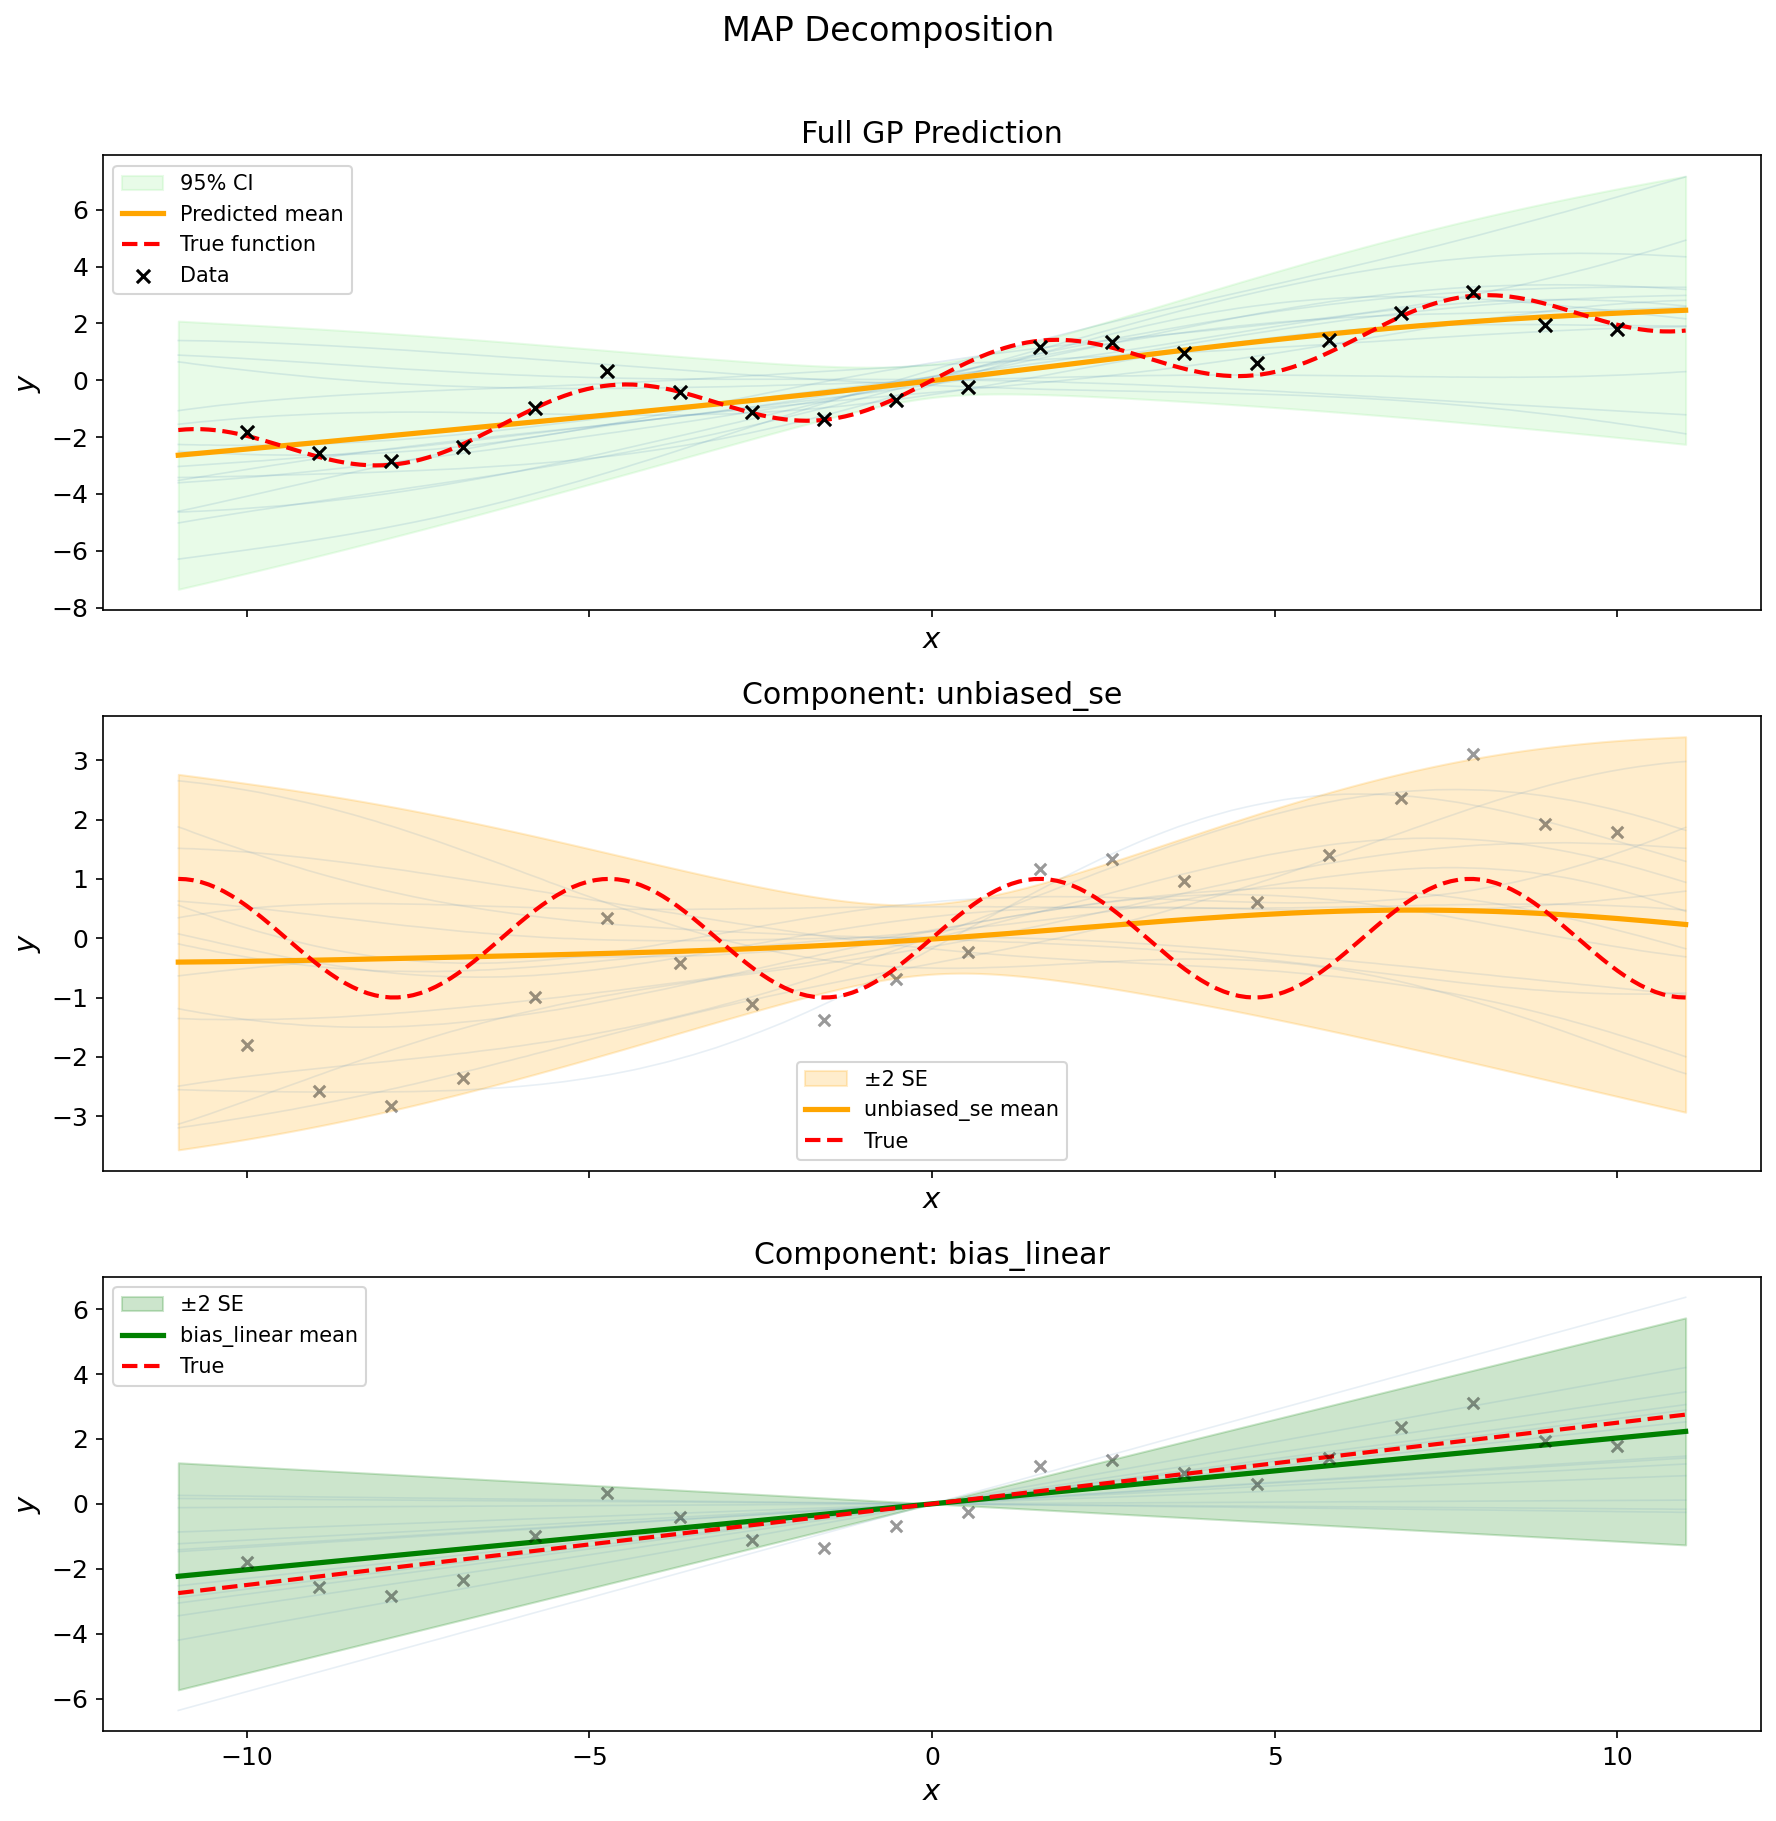
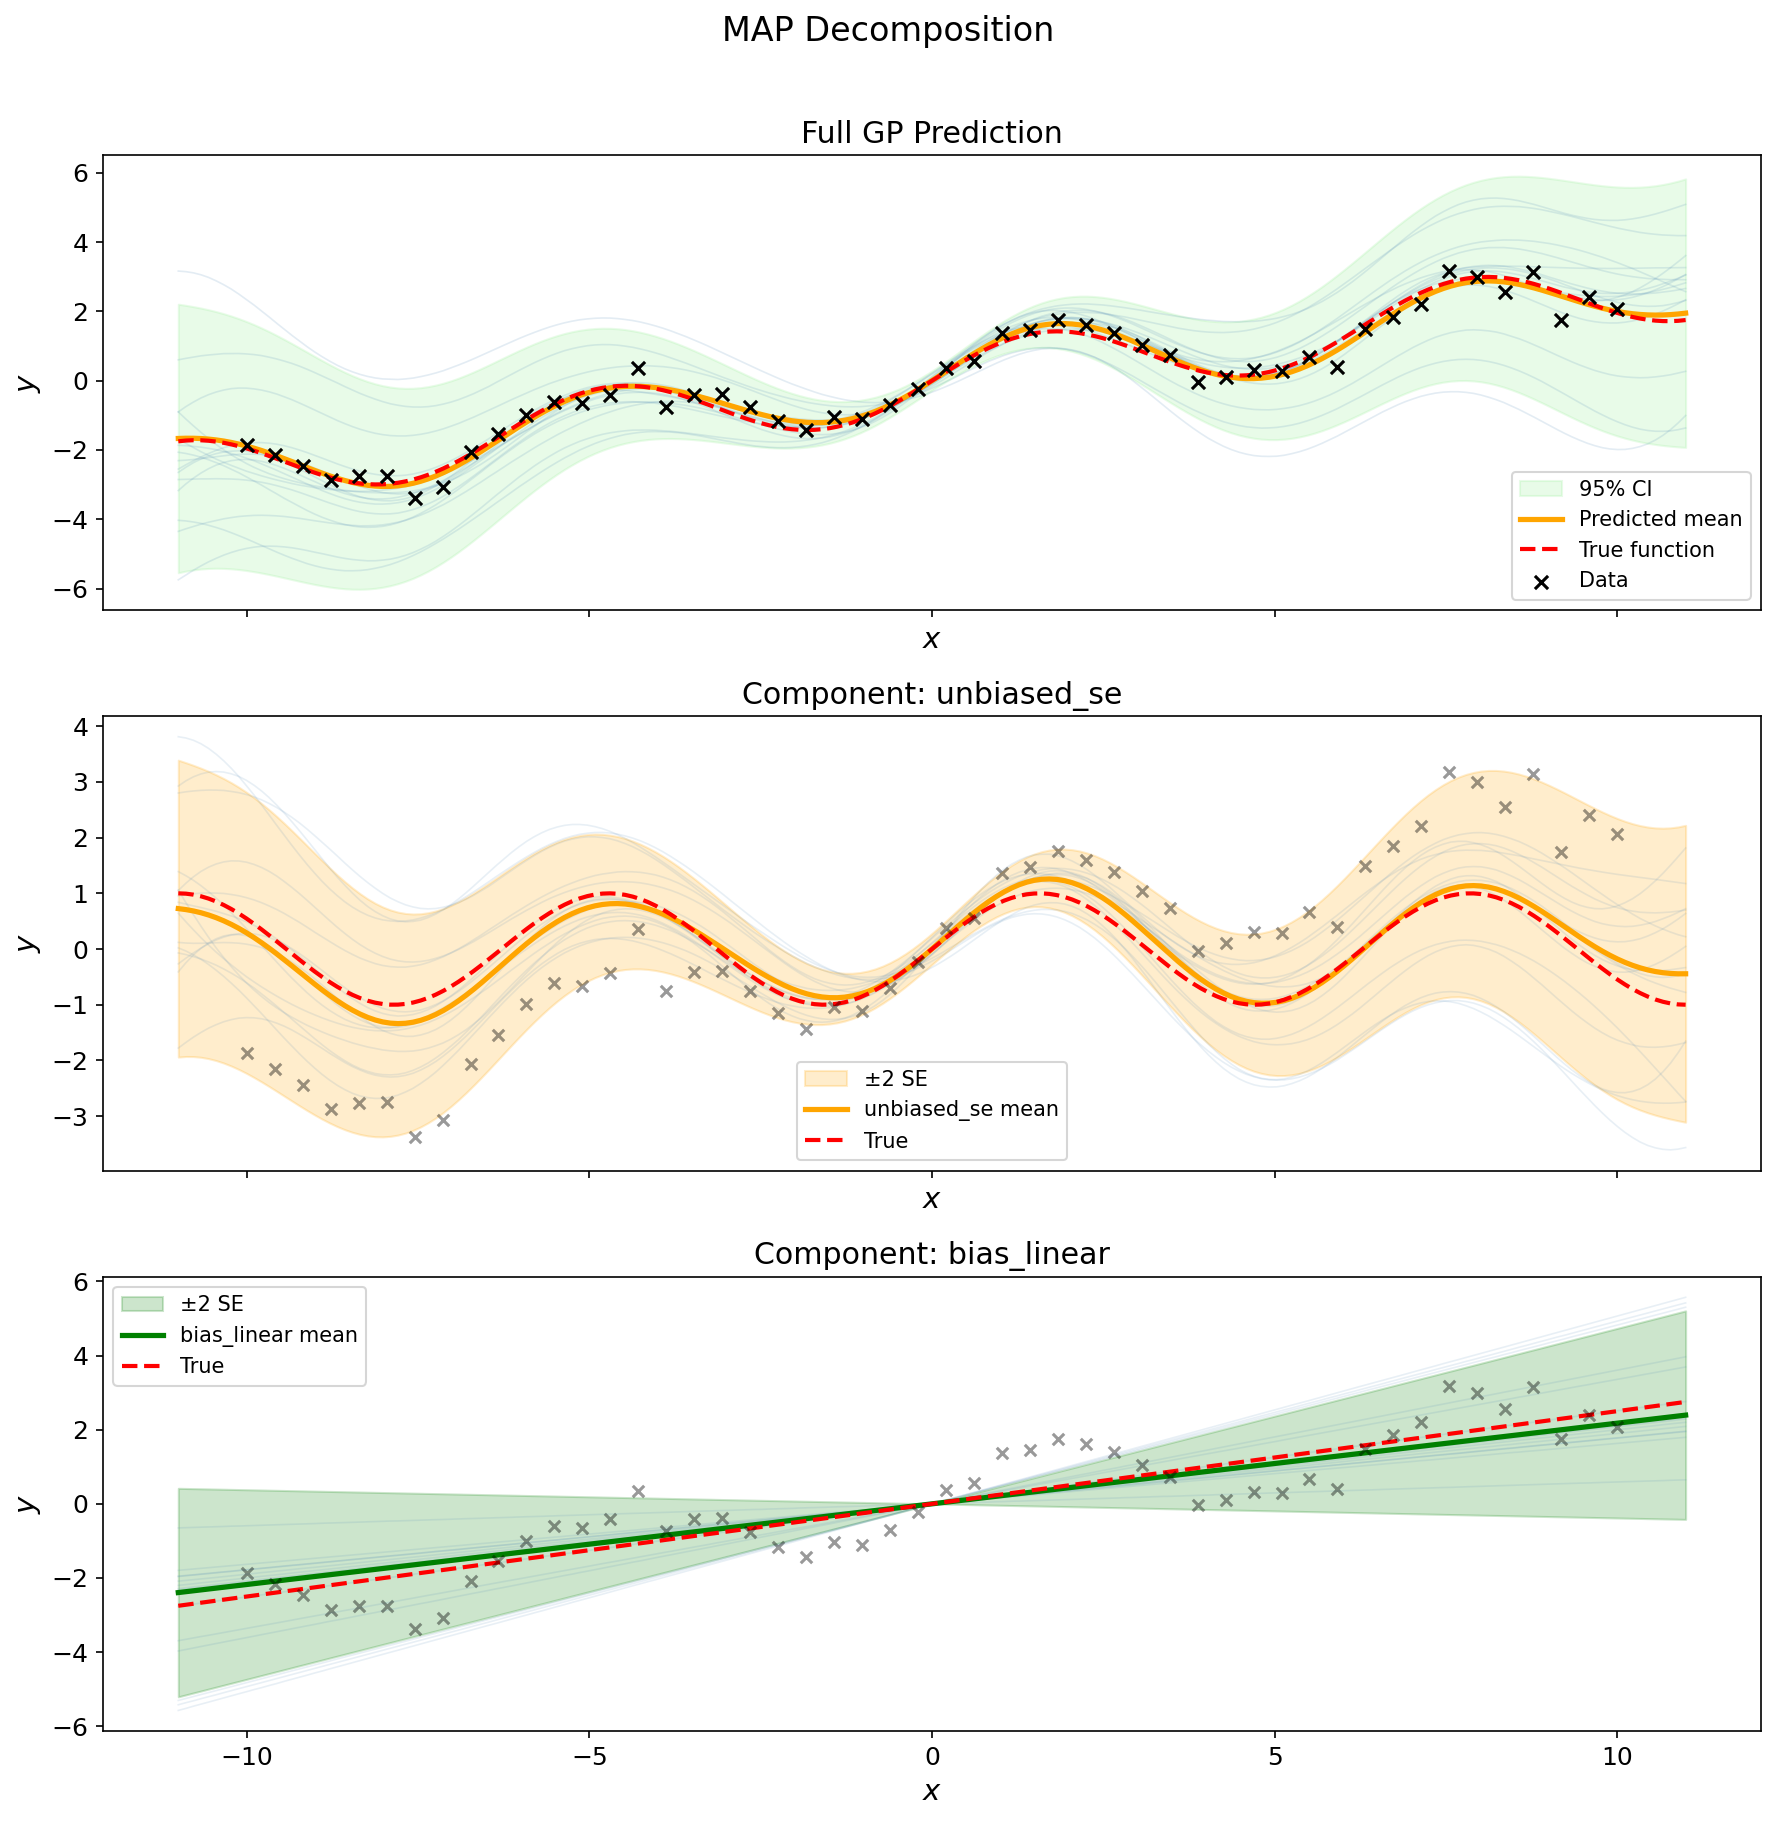
improving non-identifability: shorter lengthscale prior + more observed points
The posterior is genuinely dominated by the linear mode — it's not a mixing problem, it's that the likelihood strongly favors "linear + noise" over "linear + sinusoidal" with only 20 noisy points.
The issue is the Gamma(6, 0.85) prior on lengthscale. Its mean is ~5, which favors smooth/long lengthscales. To capture sin(x) with period 2π ≈ 6.3, you need lengthscales around 1-2.

ALSO
nstead of using pyro_load_from_samples (which adds batch dimensions), we directly set each raw parameter using constraint.inverse_transform(constrained_value). This keeps the model in non-batched mode so kernel evaluation works normally.

diff --git a/bistar_gp/debias.py b/bistar_gp/debias.py
@@ -137,3 +137,77 @@ def decompose_model_mcmc(model, likelihood, x_train, y_train, x_test,
         x_test=x_test.numpy(), x_train=x_train.numpy(), y_train=y_train.numpy(),
         components=components, full_mean=full_mean, full_std=full_std, noise_var=likelihood.noise.item(),
     )
+
+
+def decompose_model_hmc(model, likelihood, x_train, y_train, x_test,
+                        mcmc_samples, n_posterior_samples=200, jitter=1e-4):
+    """
+    Decomposition using Pyro HMC samples.
+    Uses GPyTorch's pyro_load_from_samples to correctly map
+    constrained parameter names back to the model.
+    """
+    x_train, y_train, x_test = x_train.double(), y_train.double(), x_test.double()
+    n_test = x_test.shape[0]
+
+    # Get number of MCMC samples
+    first_key = list(mcmc_samples.keys())[0]
+    total_mcmc = len(mcmc_samples[first_key])
+    indices = np.random.choice(total_mcmc, min(n_posterior_samples, total_mcmc), replace=False)
+
+    # Convert numpy arrays to tensors for pyro_load_from_samples
+    samples_tensor = {k: torch.tensor(v).double() for k, v in mcmc_samples.items()}
+
+    all_means = {n: [] for n in model.component_names}
+
+    for idx in indices:
+        # Extract single sample
+        single_sample = {k: v[idx].unsqueeze(0) if v[idx].dim() == 0 else v[idx:idx+1]
+                         for k, v in samples_tensor.items()}
+
+        # Load into model using GPyTorch's built-in method
+        model.pyro_load_from_samples(single_sample)
+        # Load noise separately
+        likelihood.pyro_load_from_samples(single_sample)
+
+        model.eval()
+        likelihood.eval()
+
+        noise_var = likelihood.noise.item()
+        km = model.get_component_kernel_matrices(x_train, x_test)
+        names = model.component_names
+
+        with torch.no_grad():
+            try:
+                from .decompose import decompose_additive_gp
+                results = decompose_additive_gp(
+                    [km[n]["XX"] for n in names],
+                    [km[n]["XstarX"] for n in names],
+                    [km[n]["XstarXstar"] for n in names],
+                    [km[n]["XXstar"] for n in names],
+                    noise_var, y_train, jitter,
+                )
+                for (mean_i, _), comp_name in zip(results, names):
+                    all_means[comp_name].append(mean_i.numpy())
+            except RuntimeError:
+                continue
+
+    components = {}
+    full_mean = np.zeros(n_test)
+    for comp_name in model.component_names:
+        means = np.stack(all_means[comp_name])
+        avg = means.mean(0)
+        std = means.std(0)
+        components[comp_name] = ComponentResult(
+            name=comp_name, mean=avg, std=std,
+            cov=np.diag(std**2), samples=means,
+        )
+        full_mean += avg
+
+    all_full = sum(np.stack(all_means[n]) for n in model.component_names)
+    full_std = all_full.std(0)
+
+    return DecompositionResult(
+        x_test=x_test.numpy(), x_train=x_train.numpy(), y_train=y_train.numpy(),
+        components=components, full_mean=full_mean, full_std=full_std,
+        noise_var=likelihood.noise.item(),
+    )

diff --git a/experiments/toy_example.py b/experiments/toy_example.py
@@ -17,6 +17,7 @@ from bistar_gp import (
     decompose_model, decompose_model_mcmc,
 )
 from bistar_gp.viz import plot_decomposition, plot_hyperparameter_posteriors
+from bistar_gp.debias import decompose_model_hmc
 
 torch.set_default_dtype(torch.float64)
 
@@ -28,7 +29,9 @@ def main():
 
     # 1. Data
     x_train, y_train, info = generate_toy_data(
-        n_points=20, noise_std=0.5, bias_slope=0.25, seed=42,
+        #n_points=20, noise_std=0.5, bias_slope=0.25, seed=42,
+        n_points=50, noise_std=0.3, bias_slope=0.25, seed=42,
+
     )
     x_test = torch.linspace(-11.0, 11.0, 200).double()
     x_np = x_test.numpy()
@@ -72,8 +75,13 @@ def main():
         n_warmup=200,
     )
 
+    # Debug: what did HMC actually sample?
+    print("\nHMC sample keys and means:")
+    for k, v in mcmc_samples.items():
+        print(f"  {k}: mean={v.mean():.4f}, std={v.std():.4f}")
+
     # HMC decomposition
-    result_mcmc = decompose_model_mcmc(
+    result_mcmc = decompose_model_hmc(
         model2, likelihood2, x_train, y_train, x_test,
         mcmc_samples,
         n_posterior_samples=200,

diff --git a/bistar_gp/model.py b/bistar_gp/model.py
@@ -97,12 +97,10 @@ def build_mauna_loa_kernels():
 
 
 def build_likelihood(noise_constraint=None, noise_prior=None):
-    """Gaussian likelihood with sensible defaults."""
     return gpytorch.likelihoods.GaussianLikelihood(
-        noise_constraint=noise_constraint or Interval(1e-4, 10.0),
+        noise_constraint=noise_constraint or Positive(),
         noise_prior=noise_prior or GammaPrior(1.75, 1.0),
     )
-
 
 def build_model(train_x, train_y, kernel_components, component_names, likelihood=None):
     """Build full model. Enforces float64. Returns (model, likelihood)."""
@@ -117,7 +115,8 @@ def build_toy_kernels():
     se = ScaleKernel(
         RBFKernel(
             lengthscale_constraint=Positive(),
-            lengthscale_prior=GammaPrior(6.0, 0.85),
+            #lengthscale_prior=GammaPrior(6.0, 0.85),
+            lengthscale_prior=GammaPrior(2.0, 2.0),  # mean ~1, favors short lengthscales
         ),
         outputscale_constraint=Positive(),
         outputscale_prior=GammaPrior(6.0, 0.85),
